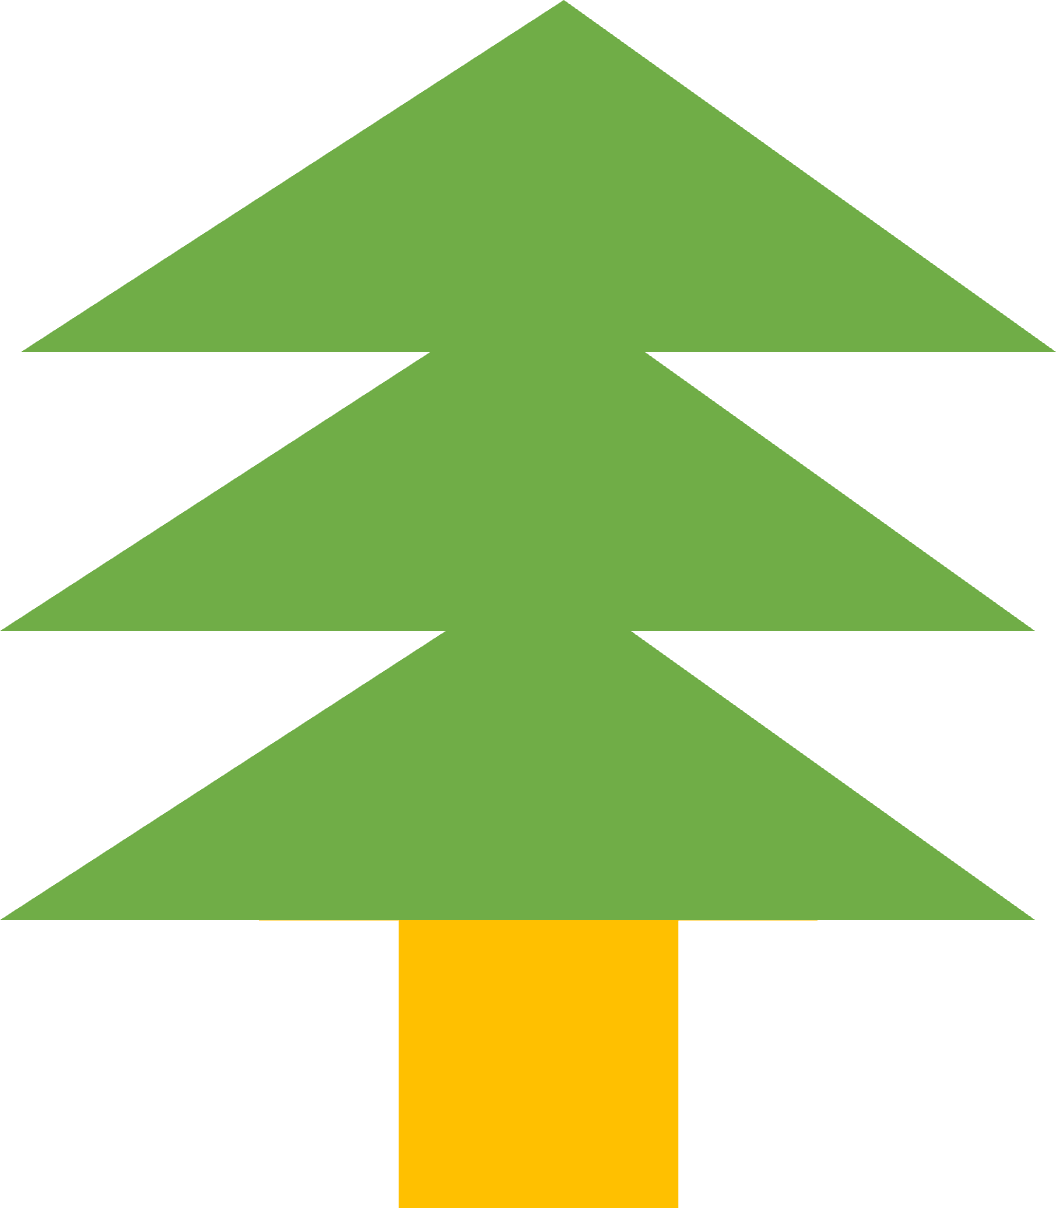
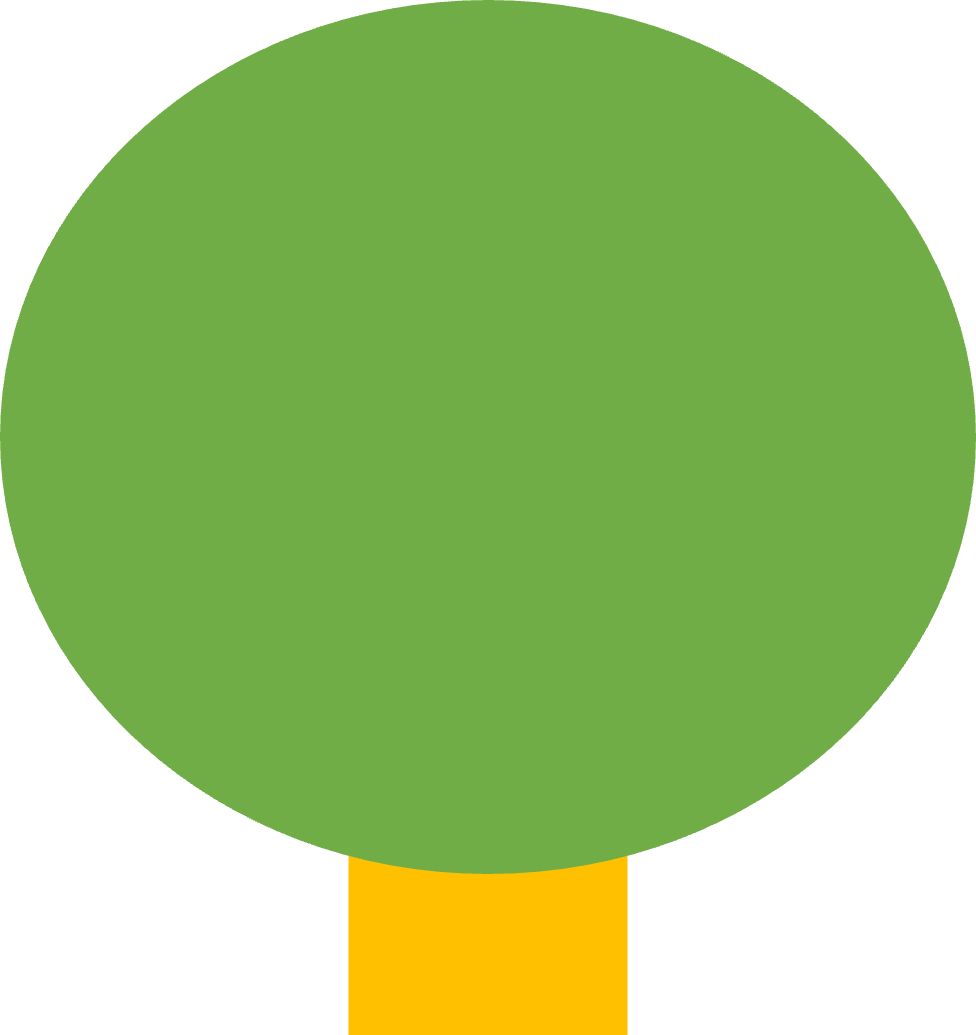
add trees

Changed region(s): [[0.0, 0.0, 1.0, 1.0]]

diff --git a/script.js b/script.js
@@ -80,14 +80,14 @@ window.addEventListener('DOMContentLoaded',function () {
     //init render, scene, camera
 
     //create a renderer
-    const renderer = new THREE.WebGLRenderer();
+    const renderer = new THREE.WebGLRenderer({
+        alpha: true
+    });
     document.body.appendChild(renderer.domElement);
     const canvas=renderer.domElement;
 
     //create a scene
     const scene = new THREE.Scene();
-    //change the background color
-    scene.background = new THREE.Color(0xFFC1C1);
 
     //create a camera
     const camera = new THREE.PerspectiveCamera(75, canvas.clientWidth/canvas.clientHeight, 5, 1000);
@@ -371,6 +371,37 @@ window.addEventListener('DOMContentLoaded',function () {
     
     createBubbles();
 
+    //create trees div
+    let trees_div = document.createElement("div");
+    trees_div.classList.add("trees");
+    
+    //create trees
+    let trees = [];
+    let tree_count = 5;
+    function creatTrees(){
+        for(let i=0;i<tree_count;i++){
+            let img = document.createElement("img");
+            img.src="./image/tree"+i+".png";
+            img.classList.add("tree");
+            let left_dis=-25+i*25;
+            let top_dis=15+i%2*3;
+            img.style.left=left_dis+"vw";
+            img.style.top=top_dis+"vh";
+            trees_div.appendChild(img);
+            trees[i]=img;
+        }
+    };
+
+    creatTrees();
+    
+    //function for add trees
+    function addTrees(){
+        document.body.appendChild(trees_div);
+        trees.forEach(tree => {
+            trees_div.appendChild(tree);
+        });        
+    }          
+
 
 
     //helper system, de-comment if needed
@@ -464,6 +495,9 @@ window.addEventListener('DOMContentLoaded',function () {
                 scene.remove(bubbles);
                 console.log("removebubbles");
             }
+            if(document.body.contains(trees_div)){
+                document.body.removeChild(trees_div);
+            }
         }
         defaultEventSet();
         defaultRotationSet(time);
@@ -475,6 +509,11 @@ window.addEventListener('DOMContentLoaded',function () {
 
     //bounce statement of the dog
     function bounceAnimate(time){
+        if(transition){
+            addTrees();
+            console.log("addtrees");
+        }
+
         function feetBounce(speed, amplitude){
             const phase_array = [0,2,4,6];
             let foot_index = 0;
@@ -517,6 +556,15 @@ window.addEventListener('DOMContentLoaded',function () {
         }
 
         headGroupShake(0.01, 0.08);
+
+        function treesMove(speed){
+            for(let i=0; i<tree_count; i++){
+                let left_dis = (25*i+speed*time)%125-25;
+                trees[i].style.left=left_dis+"vw"; 
+            };
+        }
+
+        treesMove(0.01);
     }
 
     //peaceful state of the dog
@@ -774,37 +822,37 @@ window.addEventListener('DOMContentLoaded',function () {
             text.style.display = "none";
             if(mood==="bounce"){
                 //change the background color
-                scene.background = new THREE.Color(0x8FBC8F);
+                document.body.style.background = "#8FBC8F";
                 bounceAnimate(time);
                 console.log("bounce");
             }
             if(mood==="peaceful"){
                 //change the background color
-                scene.background = new THREE.Color(0x4682B4);
+                document.body.style.background = "#4682B4";
                 peacefulAnimate(time);
                 console.log("peaceful");
             }
             if(mood==="sorrowful"){
                 //change the background color
-                scene.background = new THREE.Color(0xC06C84);
+                document.body.style.background = "#C06C84";
                 sorrowfulAnimate(time);
                 console.log("sorrowful");
             }
             if(mood==="chill"){
                 //change the background color
-                scene.background = new THREE.Color(0xCD7054);
+                document.body.style.background = "#CD7054";
                 chillAnimate(time);
                 console.log("chill");
             }
             if(mood==="hungry"){
                 //change the background color
-                scene.background = new THREE.Color(0xFED867);
+                document.body.style.background = "#FED867";
                 hungryAnimate(time);
                 console.log("hungry");
             }
             if(mood==="spring"){
                 //change the background color
-                scene.background = new THREE.Color(0x363636);
+                document.body.style.background = "#363636";
                 springAnimate(time);
                 console.log("spring");
             }

diff --git a/style.css b/style.css
@@ -18,6 +18,7 @@
 html, body {
     margin: 0;
     height: 100%;
+    background-color: #FFC1C1;
  }
  
 .three {
@@ -25,12 +26,12 @@ html, body {
     width: 100%;
     height: 100%;
     display: block;
-    z-index: 0;
+    z-index: 2;
  }
 
 #audioplay {
    position: fixed;
-   z-index: 1;
+   z-index: 0;
  }
 .musiccontrols{
    display: flex;
@@ -39,7 +40,7 @@ html, body {
    width: 100%;
    position: fixed;
    top: 70%;
-   z-index: 1;
+   z-index: 3;
    border: 0;
    margin: 0;
  }
@@ -64,4 +65,18 @@ html, body {
  .switchicon{
    width: 2rem;
    height: 2rem;
+ }
+
+ .trees{
+   display: flex;
+   border: 0;
+   margin: 0;
+ }
+
+ .tree{
+   position: fixed;
+   top: 15%;
+   height: 42%;
+   width: 25%;
+   z-index: 1;
  }
